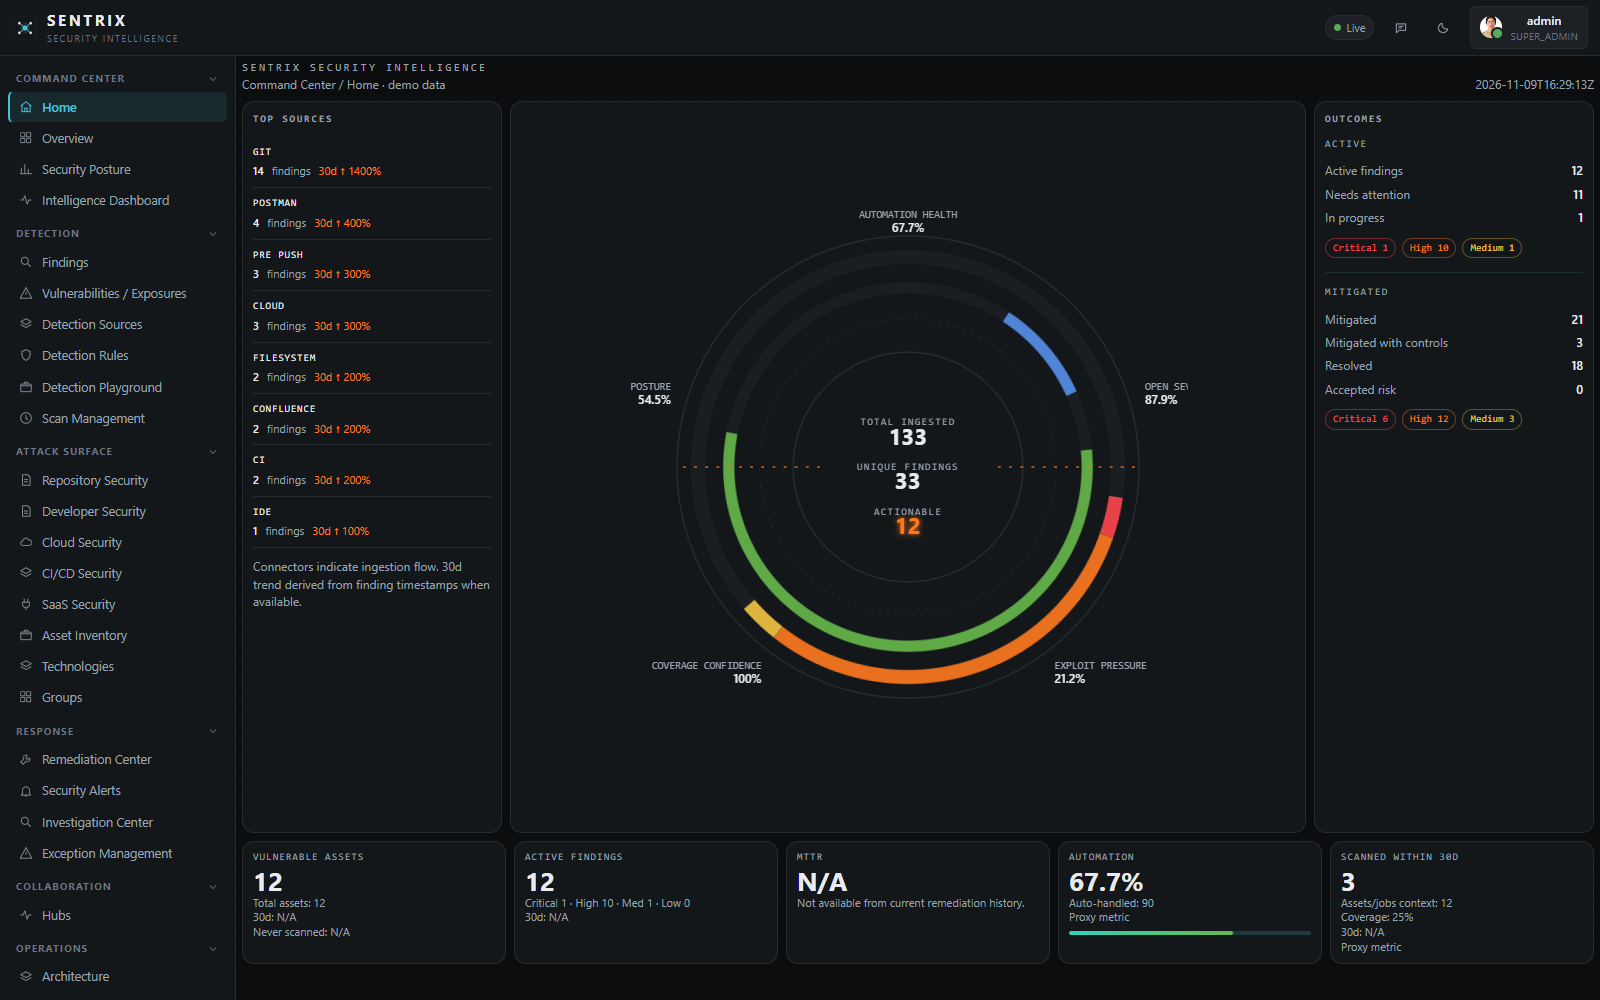
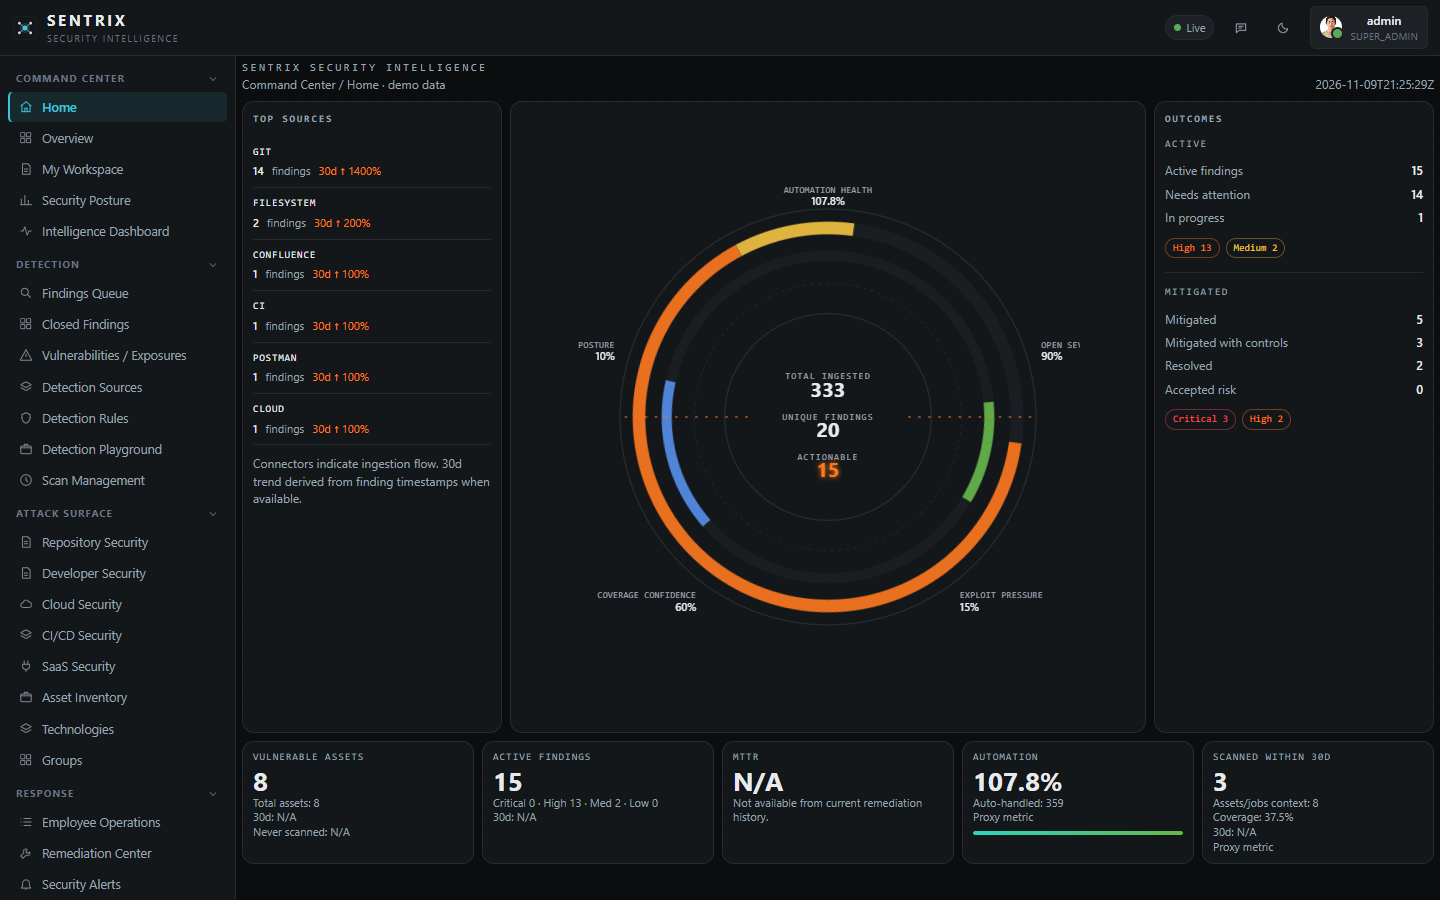
docs: retake important screenshots and fix global on() helper
- Recapture key screens with redesigned workflow: Home, Overview, Findings,
  Employee Operations, My Workspace, Closed Findings, Finding detail, Hubs,
  Integrations, Sources
- Define global on() helper used by Employee Operations handlers
- Fix Employee Operations header rendering and Closed Findings naming

diff --git a/sentrix/dashboard/app.js b/sentrix/dashboard/app.js
@@ -244,6 +244,7 @@ function isAssignmentAdmin(){ return state.user && ['super_admin','security_admi
 
 const pagehead = (title, sub, actions = "", iconHtml = "") => `<div class="pagehead"><div><h1>${iconHtml} ${esc(title)} ${helpbtn(state.view)}</h1><div class="sub">${esc(sub)}</div></div><div class="actions">${actions}</div></div>`;
 const panel = (title, body, actions = "", flush = false) => `<section class="panel"><div class="phead"><span class="ptitle">${title}</span>${actions}</div><div class="pbody${flush ? " flush" : ""}">${body}</div></section>`;
+const on = (sel, fn) => { const el = $(sel); if (el) el.onclick = fn; };
 
 function donut(series, colorOf, label) {
   const total = series.reduce((a, s) => a + s.value, 0);
@@ -1433,7 +1434,7 @@ async function renderAssignments() {
         <p class="cellsub" style="margin-top:8px">Profile changes affect eligibility and workload capacity. RBAC permissions remain unchanged.</p>
       </div>
     </div>`) : '';
-  $("#main").innerHTML = pagehead("Employee Operations","Admin command centre: who is working on what, acknowledgements, workload, availability and SLA accountability. "+helpBtnSmall('workload'), `<button class="btn sm" id="as-refresh">Refresh</button>`) +
+  $("#main").innerHTML = pagehead("Employee Operations","Admin command centre: who is working on what, acknowledgements, workload, availability and SLA accountability.", `<button class="btn sm" id="as-refresh">Refresh</button>`) +
     (state.user && typeof canWrite==='function' && !canWrite() ? banner('Read-only role: you can view assignment data but cannot perform mutations. '+helpBtnSmall('read_only'), 'warn') : '') +
     kpis +
     panel("Employee workload overview "+helpBtnSmall('workload'), teamTbl, '', true) +
@@ -1508,9 +1509,9 @@ async function renderAdminReview() {
 }
 
 async function renderClosedReports() {
-  if (!canManageAssignments()) { $("#main").innerHTML = pagehead("Closed Findings","Admin only.") + empty("Access restricted","Only administrators can access the Closed Reports command center section."); return; }
+  if (!canManageAssignments()) { $("#main").innerHTML = pagehead("Closed Findings","Admin only.") + empty("Access restricted","Only administrators can access the Closed Findings section."); return; }
   $("#main").innerHTML = pagehead("Closed Findings","All findings finally closed. Historical records retained.") + skeleton();
-  let data; try { data = await api('/api/findings?tab=closed&page_size=200'); } catch(e){ $("#main").innerHTML = pagehead("Closed Reports","") + banner(esc(e.message),'error'); return; }
+  let data; try { data = await api('/api/findings?tab=closed&page_size=200'); } catch(e){ $("#main").innerHTML = pagehead("Closed Findings","") + banner(esc(e.message),'error'); return; }
   const ids = (data.findings||[]).map(f=>f.id).slice(0,200);
   const details = await Promise.all(ids.map(id=>api(`/api/findings/${id}`).catch(()=>null)));
   const rows = details.filter(Boolean).map(d=>{
@@ -1518,9 +1519,9 @@ async function renderClosedReports() {
     const final = a.admin_decision==='confirm_false_positive'?'False Positive':(a.admin_decision==='confirm_true_positive'?'True Positive (closed)':(wf.stage||'Closed'));
     const closedAt = a.verified_at || a.completed_at || a.admin_decision_at || f.updated_at || f.created_at;
     return `<tr class="clickable" data-open="${esc(f.id)}"><td class="mono">${esc(f.id)}</td><td>${esc(f.title)}</td><td>${sevChip?sevChip(f.severity):esc(f.severity)}</td><td>${esc(a.primary_owner||'-')}</td><td>${esc(a.secondary_reviewer||'-')}</td><td>${esc((a.primary_classification||'-').replace(/_/g,' '))}</td><td>${esc((a.secondary_outcome||a.secondary_classification||'-').replace(/_/g,' '))}</td><td>${esc(final)}</td><td>${utc(closedAt)}</td><td>${esc((a.admin_decision_reason||a.verification_rejection_reason||'').slice(0,120))}</td></tr>`;
-  }).join('') || `<tr><td colspan="10">${empty('No closed reports yet','Closed reports will appear here automatically.')}</td></tr>`;
-  $("#main").innerHTML = pagehead("Closed Reports","Admin Command Centre — historical closed reports (retained).") +
-    panel("Closed Reports", `<div class="twrap"><table class="tbl"><thead><tr><th>Finding ID</th><th>Title</th><th>Severity</th><th>Primary</th><th>Secondary</th><th>Primary assessment</th><th>Secondary assessment</th><th>Final Admin decision</th><th>Closure date</th><th>Closure reason</th></tr></thead><tbody>${rows}</tbody></table></div>`, 'Open any report to inspect full investigation history, assessments, evidence and final decision.', true);
+  }).join('') || `<tr><td colspan="10">${empty('No closed findings yet','Closed findings will appear here automatically.')}</td></tr>`;
+  $("#main").innerHTML = pagehead("Closed Findings","Admin Command Centre — all closed findings (retained).") +
+    panel("Closed Findings", `<div class="twrap"><table class="tbl"><thead><tr><th>Finding ID</th><th>Title</th><th>Severity</th><th>Primary</th><th>Secondary</th><th>Primary assessment</th><th>Secondary assessment</th><th>Final Admin decision</th><th>Closure date</th><th>Closure reason</th></tr></thead><tbody>${rows}</tbody></table></div>`, 'Open any finding to inspect full investigation history, assessments, evidence and final decision.', true);
   bindOpeners();
 }
 
